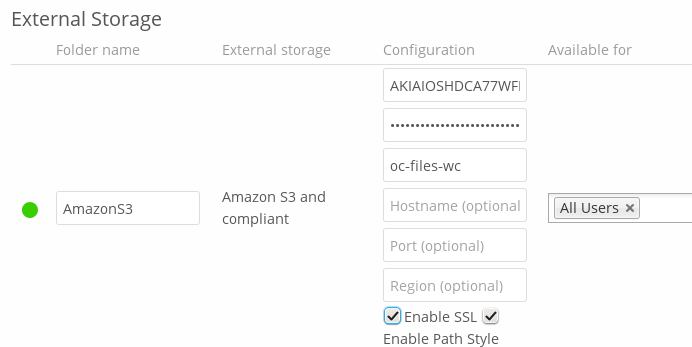
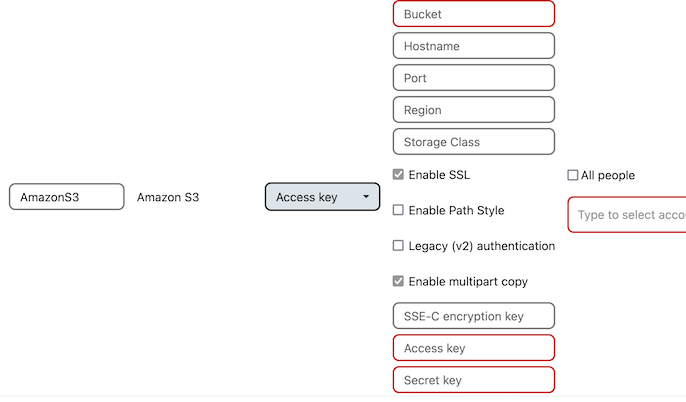
document SSE-C support in external storage
relates to nextcloud/server#33283

diff --git a/admin_manual/configuration_files/external_storage/amazons3.rst b/admin_manual/configuration_files/external_storage/amazons3.rst
@@ -42,6 +42,8 @@ access your S3 mount.
 The ``Enable SSL`` checkbox enables HTTPS connections and generally preferred. It is the default unless 
 you disable it here.
 
+Optionally, a 32-byte base64 encoded SSE-C key can be provided for server side encryption. See :doc:`../primary_storage` and the `SSE-C AWS documentation <https://docs.aws.amazon.com/AmazonS3/latest/userguide/ServerSideEncryptionCustomerKeys.html>`_ for more information how to generate a key.
+
 .. figure:: images/amazons3.png
    :alt:
 
